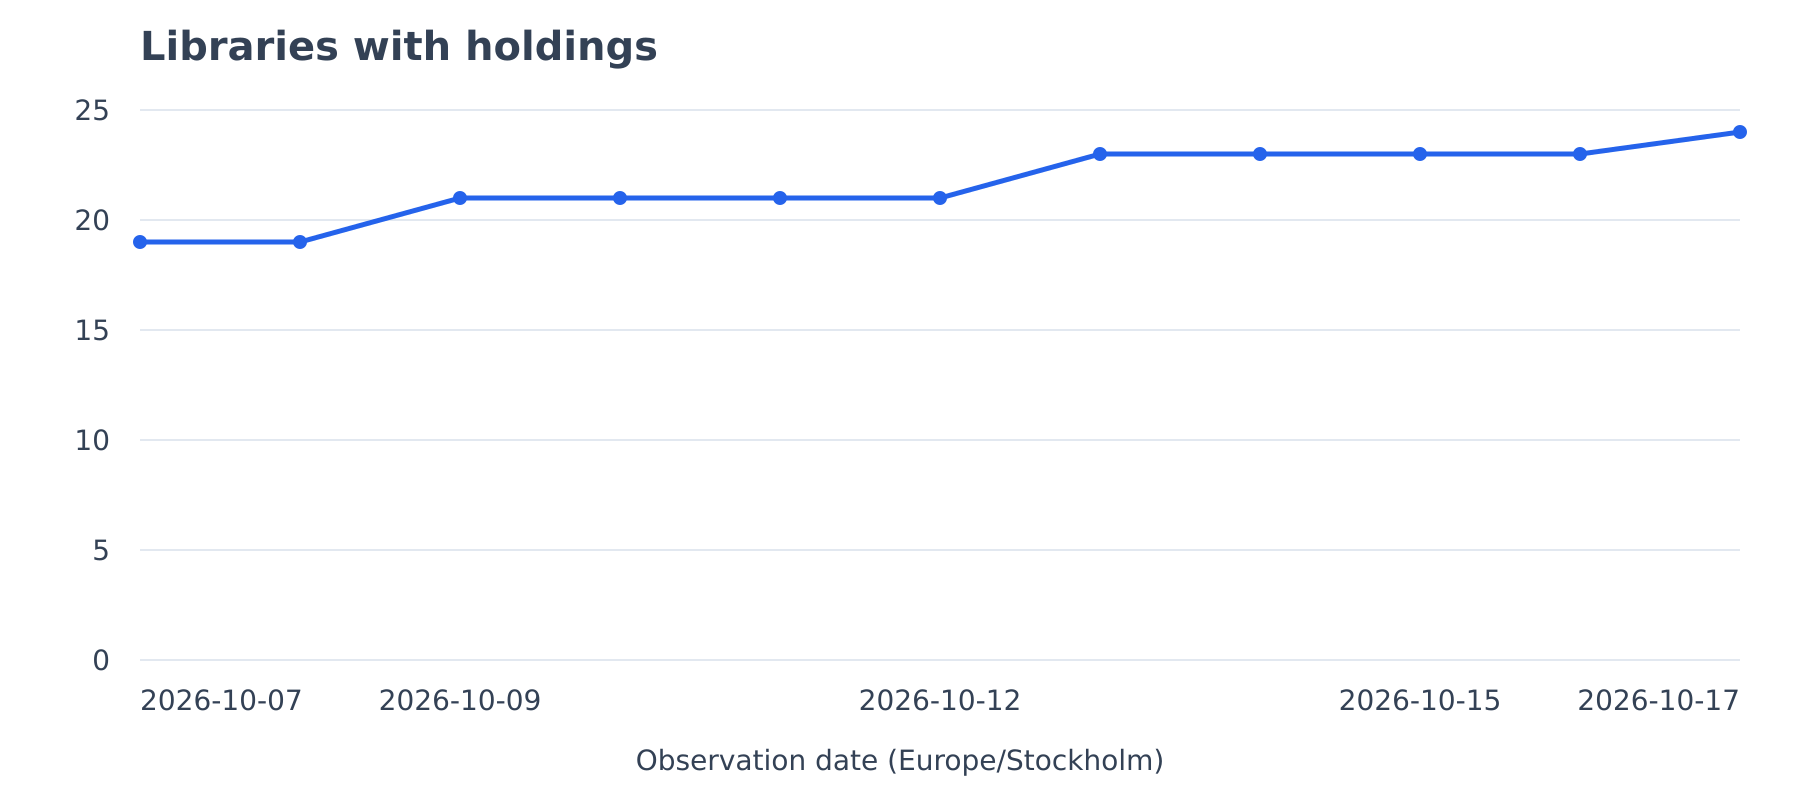
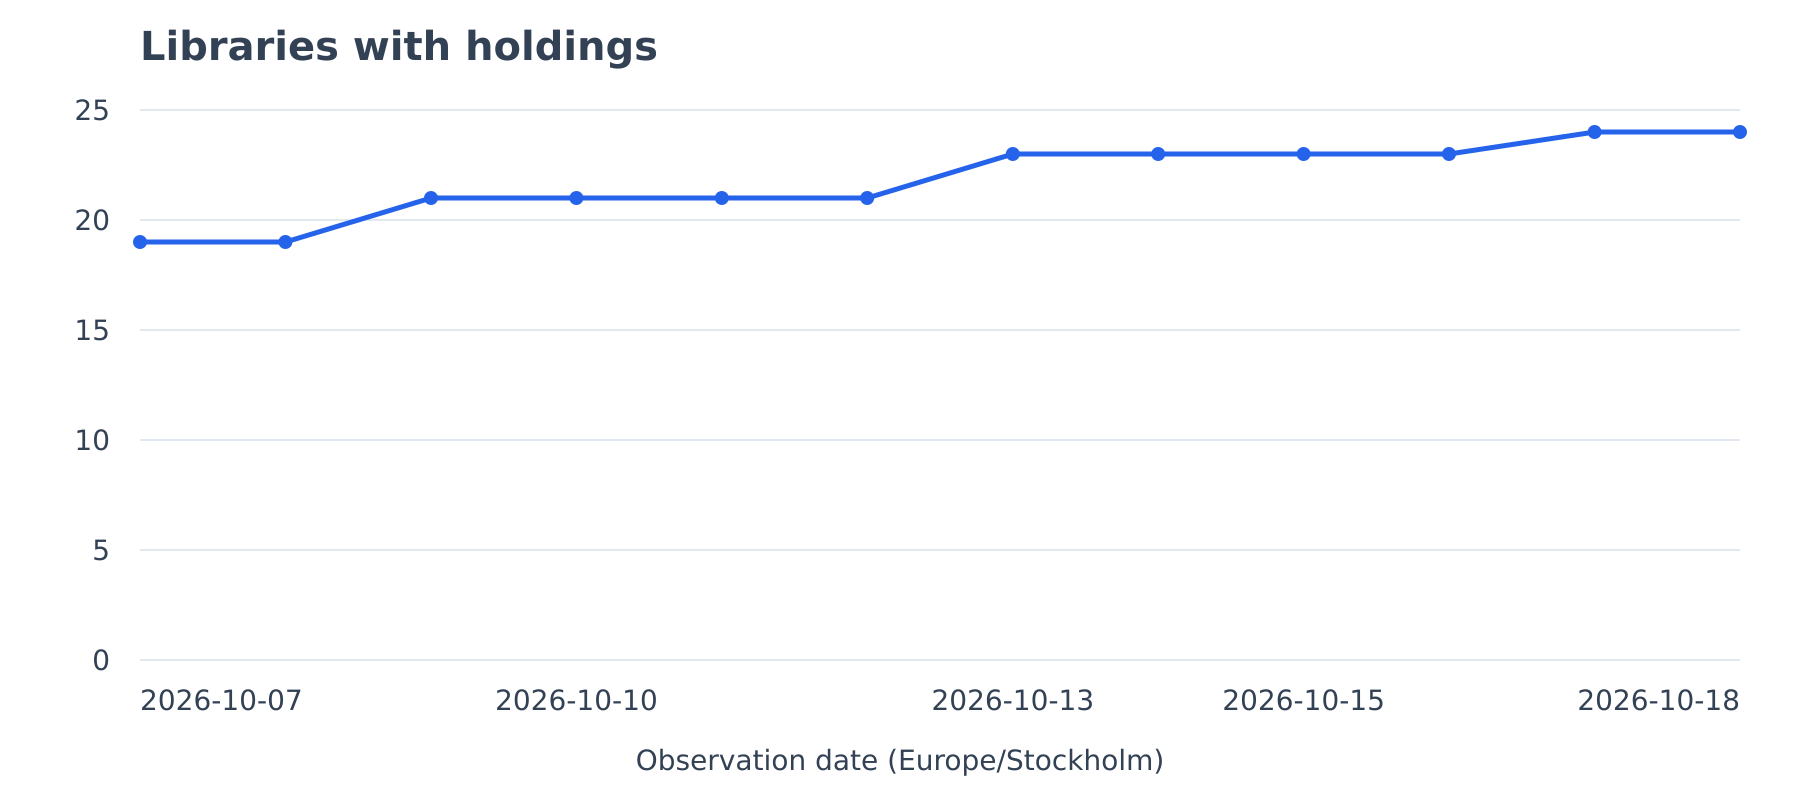
Update daily public report

diff --git a/index.html b/index.html
@@ -21,15 +21,15 @@ footer{border-top:1px solid #dce3dc;margin-top:36px;padding-top:18px}#stale{back
 <header><p class="eyebrow">Library holdings · Libris</p><h1>Välfärd och livsvillkor: Perspektiv på samtida samhällsbilder</h1>
 <p class="meta">ISBN 9789147158324 · <a href="https://libris.kb.se/c0qkzx1t9hs5ml77">View this edition in Libris</a></p></header>
 <div class="summary"><strong class="count">24</strong><span>library sigels with holdings</span></div>
-<p class="meta date">Latest observation: <strong><time datetime="2026-10-17">2026-10-17</time></strong> · Europe/Stockholm</p>
+<p class="meta date">Latest observation: <strong><time datetime="2026-10-18">2026-10-18</time></strong> · Europe/Stockholm</p>
 <p id="stale" class="note" hidden>The latest observation is more than one day old. The date above shows when the holdings were last checked.</p>
 <figure><img src="history.svg" width="900" height="400" alt="Line graph showing the number of Libris library sigels with holdings over time.">
 <figcaption>One point per daily observation. Missing days appear as gaps; earlier values are unknown.</figcaption></figure>
 <nav aria-label="Downloads"><a href="history.png" download>Download PNG</a><a href="history.svg">Open SVG</a><a href="history.csv" download>Download history (CSV)</a><a href="libraries.json">Library data (JSON)</a></nav>
-<h2>Latest changes</h2><p class="note">Compared with 2026-10-16: added O; removed none.</p>
-<h2>Current libraries</h2><table><caption class="note">24 library sigels · 2026-10-17</caption><thead><tr><th scope="col">Library</th><th scope="col">Sigel</th></tr></thead><tbody><tr><td><a href="https://libris.kb.se/library/Afb">Alingsås bibliotek</a></td><td>Afb</td></tr><tr><td><a href="https://libris.kb.se/library/3Al">Bibliotek på Åland</a></td><td>3Al</td></tr><tr><td><a href="https://libris.kb.se/library/Gbg">Biblioteken i Göteborg</a></td><td>Gbg</td></tr><tr><td><a href="https://libris.kb.se/library/Boln">Bollnäs bibliotek</a></td><td>Boln</td></tr><tr><td><a href="https://libris.kb.se/library/Borb">Borlänge bibliotek</a></td><td>Borb</td></tr><tr><td><a href="https://libris.kb.se/library/Bo">Borås stadsbibliotek</a></td><td>Bo</td></tr><tr><td><a href="https://libris.kb.se/library/Btj">BTJ</a></td><td>Btj</td></tr><tr><td><a href="https://libris.kb.se/library/Hdf">Högskolan Dalarna</a></td><td>Hdf</td></tr><tr><td><a href="https://libris.kb.se/library/Hib">Högskolan i Borås</a></td><td>Hib</td></tr><tr><td><a href="https://libris.kb.se/library/Ch">Karolinska Institutet, Universitetsbiblioteket</a></td><td>Ch</td></tr><tr><td><a href="https://libris.kb.se/library/Lsam">Lunds universitets bibliotek</a></td><td>Lsam</td></tr><tr><td><a href="https://libris.kb.se/library/Mo">Malmö stadsbibliotek</a></td><td>Mo</td></tr><tr><td><a href="https://libris.kb.se/library/Mchs">Marie Cederschiöld högskolebibliotek</a></td><td>Mchs</td></tr><tr><td><a href="https://libris.kb.se/library/Moln">Mölndals stadsbibliotek</a></td><td>Moln</td></tr><tr><td><a href="https://libris.kb.se/library/Nyks">Nyköpings stadsbibliotek</a></td><td>Nyks</td></tr><tr><td><a href="https://libris.kb.se/library/Solb">Solna stadsbibliotek</a></td><td>Solb</td></tr><tr><td><a href="https://libris.kb.se/library/Ssb">Stockholms stadsbibliotek</a></td><td>Ssb</td></tr><tr><td><a href="https://libris.kb.se/library/H">Stockholms universitet</a></td><td>H</td></tr><tr><td><a href="https://libris.kb.se/library/Um">Umeå stadsbibliotek</a></td><td>Um</td></tr><tr><td><a href="https://libris.kb.se/library/7Up">Uppsalas skolor</a></td><td>7Up</td></tr><tr><td><a href="https://libris.kb.se/library/Varb">Varbergs bibliotek</a></td><td>Varb</td></tr><tr><td><a href="https://libris.kb.se/library/Vetb">Vetlanda bibliotek</a></td><td>Vetb</td></tr><tr><td><a href="https://libris.kb.se/library/7Vax">Växjö skolbibliotek</a></td><td>7Vax</td></tr><tr><td><a href="https://libris.kb.se/library/O">Örebro universitetsbibliotek</a></td><td>O</td></tr></tbody></table>
+<h2>Latest changes</h2><p class="note">Compared with 2026-10-17: added none; removed none.</p>
+<h2>Current libraries</h2><table><caption class="note">24 library sigels · 2026-10-18</caption><thead><tr><th scope="col">Library</th><th scope="col">Sigel</th></tr></thead><tbody><tr><td><a href="https://libris.kb.se/library/Afb">Alingsås bibliotek</a></td><td>Afb</td></tr><tr><td><a href="https://libris.kb.se/library/3Al">Bibliotek på Åland</a></td><td>3Al</td></tr><tr><td><a href="https://libris.kb.se/library/Gbg">Biblioteken i Göteborg</a></td><td>Gbg</td></tr><tr><td><a href="https://libris.kb.se/library/Boln">Bollnäs bibliotek</a></td><td>Boln</td></tr><tr><td><a href="https://libris.kb.se/library/Borb">Borlänge bibliotek</a></td><td>Borb</td></tr><tr><td><a href="https://libris.kb.se/library/Bo">Borås stadsbibliotek</a></td><td>Bo</td></tr><tr><td><a href="https://libris.kb.se/library/Btj">BTJ</a></td><td>Btj</td></tr><tr><td><a href="https://libris.kb.se/library/Hdf">Högskolan Dalarna</a></td><td>Hdf</td></tr><tr><td><a href="https://libris.kb.se/library/Hib">Högskolan i Borås</a></td><td>Hib</td></tr><tr><td><a href="https://libris.kb.se/library/Ch">Karolinska Institutet, Universitetsbiblioteket</a></td><td>Ch</td></tr><tr><td><a href="https://libris.kb.se/library/Lsam">Lunds universitets bibliotek</a></td><td>Lsam</td></tr><tr><td><a href="https://libris.kb.se/library/Mo">Malmö stadsbibliotek</a></td><td>Mo</td></tr><tr><td><a href="https://libris.kb.se/library/Mchs">Marie Cederschiöld högskolebibliotek</a></td><td>Mchs</td></tr><tr><td><a href="https://libris.kb.se/library/Moln">Mölndals stadsbibliotek</a></td><td>Moln</td></tr><tr><td><a href="https://libris.kb.se/library/Nyks">Nyköpings stadsbibliotek</a></td><td>Nyks</td></tr><tr><td><a href="https://libris.kb.se/library/Solb">Solna stadsbibliotek</a></td><td>Solb</td></tr><tr><td><a href="https://libris.kb.se/library/Ssb">Stockholms stadsbibliotek</a></td><td>Ssb</td></tr><tr><td><a href="https://libris.kb.se/library/H">Stockholms universitet</a></td><td>H</td></tr><tr><td><a href="https://libris.kb.se/library/Um">Umeå stadsbibliotek</a></td><td>Um</td></tr><tr><td><a href="https://libris.kb.se/library/7Up">Uppsalas skolor</a></td><td>7Up</td></tr><tr><td><a href="https://libris.kb.se/library/Varb">Varbergs bibliotek</a></td><td>Varb</td></tr><tr><td><a href="https://libris.kb.se/library/Vetb">Vetlanda bibliotek</a></td><td>Vetb</td></tr><tr><td><a href="https://libris.kb.se/library/7Vax">Växjö skolbibliotek</a></td><td>7Vax</td></tr><tr><td><a href="https://libris.kb.se/library/O">Örebro universitetsbibliotek</a></td><td>O</td></tr></tbody></table>
 <footer><p class="note">Source: Libris, Kungliga biblioteket. Counts cover unique library sigels with registered holdings for this edition. They do not measure copies, individual branches, or current loan availability.</p>
-<p class="note">Checked at <time datetime="2026-10-16T23:39:03+00:00">2026-10-16T23:39:03+00:00</time>. This report updates after successful daily collection.</p></footer>
+<p class="note">Checked at <time datetime="2026-10-18T08:17:39+00:00">2026-10-18T08:17:39+00:00</time>. This report updates after successful daily collection.</p></footer>
 </main><script>
 const today = new Intl.DateTimeFormat('sv-SE', {timeZone:'Europe/Stockholm'}).format(new Date());
 const observed = document.querySelector('.date time').dateTime;
